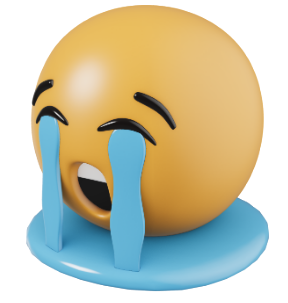
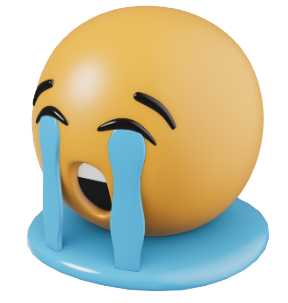
aaa

diff --git a/index.html b/index.html
@@ -26,7 +26,7 @@
         .game-container {
             width: 100%;
             height: 100%;
-            background: radial-gradient(circle, #14623a 0%, #0a3d20 100%);
+            background: url('assets/H and L_bg.png') center/cover no-repeat;
             position: relative;
             overflow: hidden;
             box-sizing: border-box;
@@ -241,18 +241,58 @@
             font-weight: bold;
             color: white;
             border: none;
-            border-radius: 30px;
             cursor: pointer;
             box-shadow: 0 8px 20px rgba(0,0,0,0.4);
             transition: transform 0.1s;
         }
         .btn-action:active { transform: scale(0.95); }
 
-        .btn-high { background-color: #28a745; }
-        .btn-low { background-color: #dc3545; }
+        .btn-high { 
+            background: url('assets/high_button.png') center/cover no-repeat;
+            color: transparent;
+            box-shadow: none;
+            border: none;
+        }
+        .btn-low { 
+            background: url('assets/low_button.png') center/cover no-repeat;
+            color: transparent;
+            box-shadow: none;
+            border: none;
+        }
         .btn-gray { background-color: #6c757d; }
         .btn-yellow { background-color: #f1c40f; color: black; }
+/* ボタン共通の背景設定を修正 */
+/* リザルト画面のボタン共通設定 */
+/* ==========================================
+           4. リザルト画面のボタン設定（背景色なし）
+        ========================================== */
+        .btn-huge {
+            background-color: transparent !important; /* 白い背景を強制解除 */
+            background-repeat: no-repeat;
+            background-position: center;
+            background-size: contain; 
+            border: none !important; /* 枠線も解除 */
+            cursor: pointer;
+            transition: transform 0.1s;
+            padding: 0 !important;
+            box-shadow: none !important; /* もし影が不要ならここを消す */
+        }
+        
+        .btn-huge:active { transform: scale(0.95); }
 
+        /* ダブルアップ(Continue)ボタン */
+        .btn-continue {
+            background-image: url('assets/doubleup_button.png');
+            min-width: clamp(240px, 30vw, 400px);
+            aspect-ratio: 2 / 1;
+        }
+
+        /* 降りる(Collect)ボタン */
+        .btn-collect {
+            background-image: url('assets/fin_button.png');
+            min-width: clamp(120px, 15vw, 200px);
+            aspect-ratio: 2 / 1;
+        }
         /* ==========================================
            4. リザルトオーバーレイ（ド派手演出）
         ========================================== */
@@ -300,6 +340,16 @@
             line-height: 1.4;
         }
 
+        .result-card-info {
+            font-size: clamp(1.2rem, 2.5vw, 2.5rem);
+            font-weight: bold;
+            margin-bottom: 3vh;
+            text-shadow: 2px 2px 0px #000;
+            text-align: center;
+            line-height: 1.6;
+            color: #ffffff;
+        }
+
         .overlay-btn-container {
             display: flex;
             gap: 4vw;
@@ -308,16 +358,26 @@
         }
 
         .btn-huge {
-            padding: 20px 40px;
-            font-size: clamp(1.2rem, 2.5vw, 2.2rem);
+            padding: 30px 60px;
+            font-size: clamp(1.5rem, 3vw, 2.5rem);
             font-weight: bold;
-            border-radius: 40px;
-            border: 4px solid #fff;
             cursor: pointer;
             box-shadow: 0 10px 20px rgba(0,0,0,0.5);
             transition: transform 0.1s;
         }
         .btn-huge:active { transform: scale(0.95); }
+        
+        .btn-continue {
+            padding: 50px 100px;
+            min-width: clamp(200px, 25vw, 350px);
+            min-height: clamp(150px, 18vh, 250px);
+        }
+        
+        .btn-collect {
+            padding: 25px 50px;
+            min-width: clamp(100px, 12vw, 175px);
+            min-height: clamp(75px, 9vh, 125px);
+        }
 
         /* アニメーション定義 */
         @keyframes overlayFadeIn { from { opacity: 0; } to { opacity: 1; } }
@@ -366,6 +426,7 @@
             <!-- ド派手な勝敗演出用オーバーレイ -->
             <div id="result-overlay" class="result-overlay">
                 <div id="overlay-title" class="result-title">WIN !!</div>
+                <div id="overlay-card-info" class="result-card-info"></div>
                 <div id="overlay-sub" class="result-sub">2倍獲得！ (20チップ)</div>
                 <div class="overlay-btn-container" id="overlay-buttons">
                     <!-- JSから動的にボタンを生成 -->
@@ -472,6 +533,7 @@
         let winStreak = 0;
         let potentialPayout = 0;
         const MAX_MULTIPLIER = 10;
+        let currentScreen = 'screen-home';
 
         const suits = [
             { symbol: '♠', isRed: false }, { symbol: '♥', isRed: true },
@@ -490,6 +552,7 @@
                 screen.classList.remove('active');
             });
             document.getElementById(screenId).classList.add('active');
+            currentScreen = screenId;
         }
 
         function selectCasinoMode() {
@@ -652,11 +715,13 @@
             const isWin = (prediction === 'high' && nextCard.value > currentCard.value) ||
                           (prediction === 'low' && nextCard.value < currentCard.value);
 
+            const cardInfo = `現在のカード: ${currentCard.display}${currentCard.suit}<br>次のカード: ${nextCard.display}${nextCard.suit}`;
+
             if (isWin) {
                 if (gameMode === 'normal') {
                     score++;
                     document.getElementById('label-score').innerText = `スコア: ${score}`;
-                    showWinOverlay(`正解！🎉`, `現在のスコア: ${score}`);
+                    showWinOverlay(`正解！🎉`, cardInfo, `現在のスコア: ${score}`);
                 } else {
                     winStreak++;
                     let multiplier = winStreak + 1;
@@ -665,37 +730,41 @@
 
                     showWinOverlay(
                         `🎉 WIN !! 🎉`,
+                        cardInfo,
                         `【現在 ${winStreak}連勝中！】 倍率: ${multiplier}倍<br>獲得予定: ${potentialPayout} チップ`
                     );
                 }
             } else {
                 if (gameMode === 'normal') {
-                    showLoseOverlay(`💀 LOSE 💀`, `残念、はずれです！<br>最終スコア: ${score}`);
+                    showLoseOverlay(`💀 LOSE 💀`, cardInfo, `残念、はずれです！<br>最終スコア: ${score}`);
                 } else {
                     potentialPayout = 0;
                     showLoseOverlay(
                         `💀 LOSE 💀`,
+                        cardInfo,
                         `残念！予想が外れました。<br>獲得予定チップは 0 になりました。`
                     );
                 }
             }
         }
 
-        function showWinOverlay(title, subtext) {
+        function showWinOverlay(title, cardInfo, subtext) {
             const overlay = document.getElementById('result-overlay');
             const oTitle = document.getElementById('overlay-title');
+            const oCardInfo = document.getElementById('overlay-card-info');
             const oSub = document.getElementById('overlay-sub');
             const oButtons = document.getElementById('overlay-buttons');
 
             overlay.className = "result-overlay win";
             oTitle.innerText = title;
+            oCardInfo.innerHTML = cardInfo;
             oSub.innerHTML = subtext;
 
             oButtons.innerHTML = '';
             if (gameMode === 'normal') {
                 oButtons.innerHTML = `
-                    <button class="btn-huge btn-green" style="background-color: #2ecc71;" onclick="continueChallenge()">次のラウンドへ</button>
-                    <button class="btn-huge btn-gray" style="background-color: #7f8c8d; color: white;" onclick="returnToHome()">終了して戻る</button>
+                    <button class="btn-huge btn-continue" onclick="continueChallenge()"></button>
+                    <button class="btn-huge btn-collect" onclick="returnToHome()"></button>
                 `;
             } else {
                 const currentMultiplier = winStreak + 1;
@@ -703,26 +772,28 @@
 
                 if (currentMultiplier >= MAX_MULTIPLIER) {
                     oButtons.innerHTML = `
-                        <button class="btn-huge btn-yellow" style="background-color: #f1c40f;" onclick="collectChips()">最大倍率達成！回収して終了</button>
+                        <button class="btn-huge btn-collect" onclick="collectChips()"></button>
                     `;
                 } else {
                     oButtons.innerHTML = `
-                        <button class="btn-huge btn-green" style="background-color: #2ecc71;" onclick="continueChallenge()">次へ挑戦 (次：${nextMultiplier}倍)</button>
-                        <button class="btn-huge btn-yellow" style="background-color: #f1c40f;" onclick="collectChips()">ここで回収 (${potentialPayout}枚)</button>
+                        <button class="btn-huge btn-continue" onclick="continueChallenge()"></button>
+                        <button class="btn-huge btn-collect" onclick="collectChips()"></button>
                     `;
                 }
             }
             overlay.style.display = 'flex';
         }
 
-        function showLoseOverlay(title, subtext) {
+        function showLoseOverlay(title, cardInfo, subtext) {
             const overlay = document.getElementById('result-overlay');
             const oTitle = document.getElementById('overlay-title');
+            const oCardInfo = document.getElementById('overlay-card-info');
             const oSub = document.getElementById('overlay-sub');
             const oButtons = document.getElementById('overlay-buttons');
 
             overlay.className = "result-overlay lose";
             oTitle.innerText = title;
+            oCardInfo.innerHTML = cardInfo;
             oSub.innerHTML = subtext;
 
             oButtons.innerHTML = `
@@ -760,6 +831,7 @@
         async function collectChips() {
             const overlay = document.getElementById('result-overlay');
             const oTitle = document.getElementById('overlay-title');
+            const oCardInfo = document.getElementById('overlay-card-info');
             const oSub = document.getElementById('overlay-sub');
             const oButtons = document.getElementById('overlay-buttons');
 
@@ -770,6 +842,7 @@
                 
                 overlay.className = "result-overlay collect";
                 oTitle.innerText = "COLLECTED!";
+                oCardInfo.innerHTML = '';
                 oSub.innerHTML = `見事チャレンジ成功！<br>${potentialPayout} チップを獲得しました！`;
                 
                 oButtons.innerHTML = `
@@ -784,6 +857,58 @@
             hideResultOverlay();
             changeScreen('screen-home');
         }
+
+        // ==========================================
+        // キーボードコントロール
+        // ==========================================
+        document.addEventListener('keydown', (event) => {
+            const key = event.key.toLowerCase();
+            
+            if (key === 'a') {
+                // 左側のボタンをクリック
+                if (currentScreen === 'screen-home') {
+                    document.querySelector('.btn-circle.btn-green').click();
+                } else if (currentScreen === 'screen-qr') {
+                    // QR画面では左側ボタンなし
+                } else if (currentScreen === 'screen-game') {
+                    // ゲーム画面内のアクティブなボタンを判定
+                    const resultOverlay = document.getElementById('result-overlay');
+                    if (resultOverlay.style.display === 'flex') {
+                        // リザルト画面：左側のボタン
+                        const buttons = resultOverlay.querySelectorAll('button');
+                        if (buttons.length > 0) {
+                            buttons[0].click();
+                        }
+                    } else {
+                        // ゲームプレイ中：HIGH ボタン
+                        document.querySelector('.btn-high').click();
+                    }
+                }
+            } else if (key === 'l') {
+                // 右側のボタンをクリック
+                if (currentScreen === 'screen-home') {
+                    document.querySelector('.btn-circle.btn-red').click();
+                } else if (currentScreen === 'screen-qr') {
+                    // QR画面では右側ボタンをクリック（決定ボタン）
+                    document.querySelector('.manual-input-area .btn-action').click();
+                } else if (currentScreen === 'screen-game') {
+                    // ゲーム画面内のアクティブなボタンを判定
+                    const resultOverlay = document.getElementById('result-overlay');
+                    if (resultOverlay.style.display === 'flex') {
+                        // リザルト画面：右側のボタン
+                        const buttons = resultOverlay.querySelectorAll('button');
+                        if (buttons.length > 1) {
+                            buttons[buttons.length - 1].click();
+                        } else if (buttons.length === 1) {
+                            buttons[0].click();
+                        }
+                    } else {
+                        // ゲームプレイ中：LOW ボタン
+                        document.querySelector('.btn-low').click();
+                    }
+                }
+            }
+        });
     </script>
 </body>
 </html>